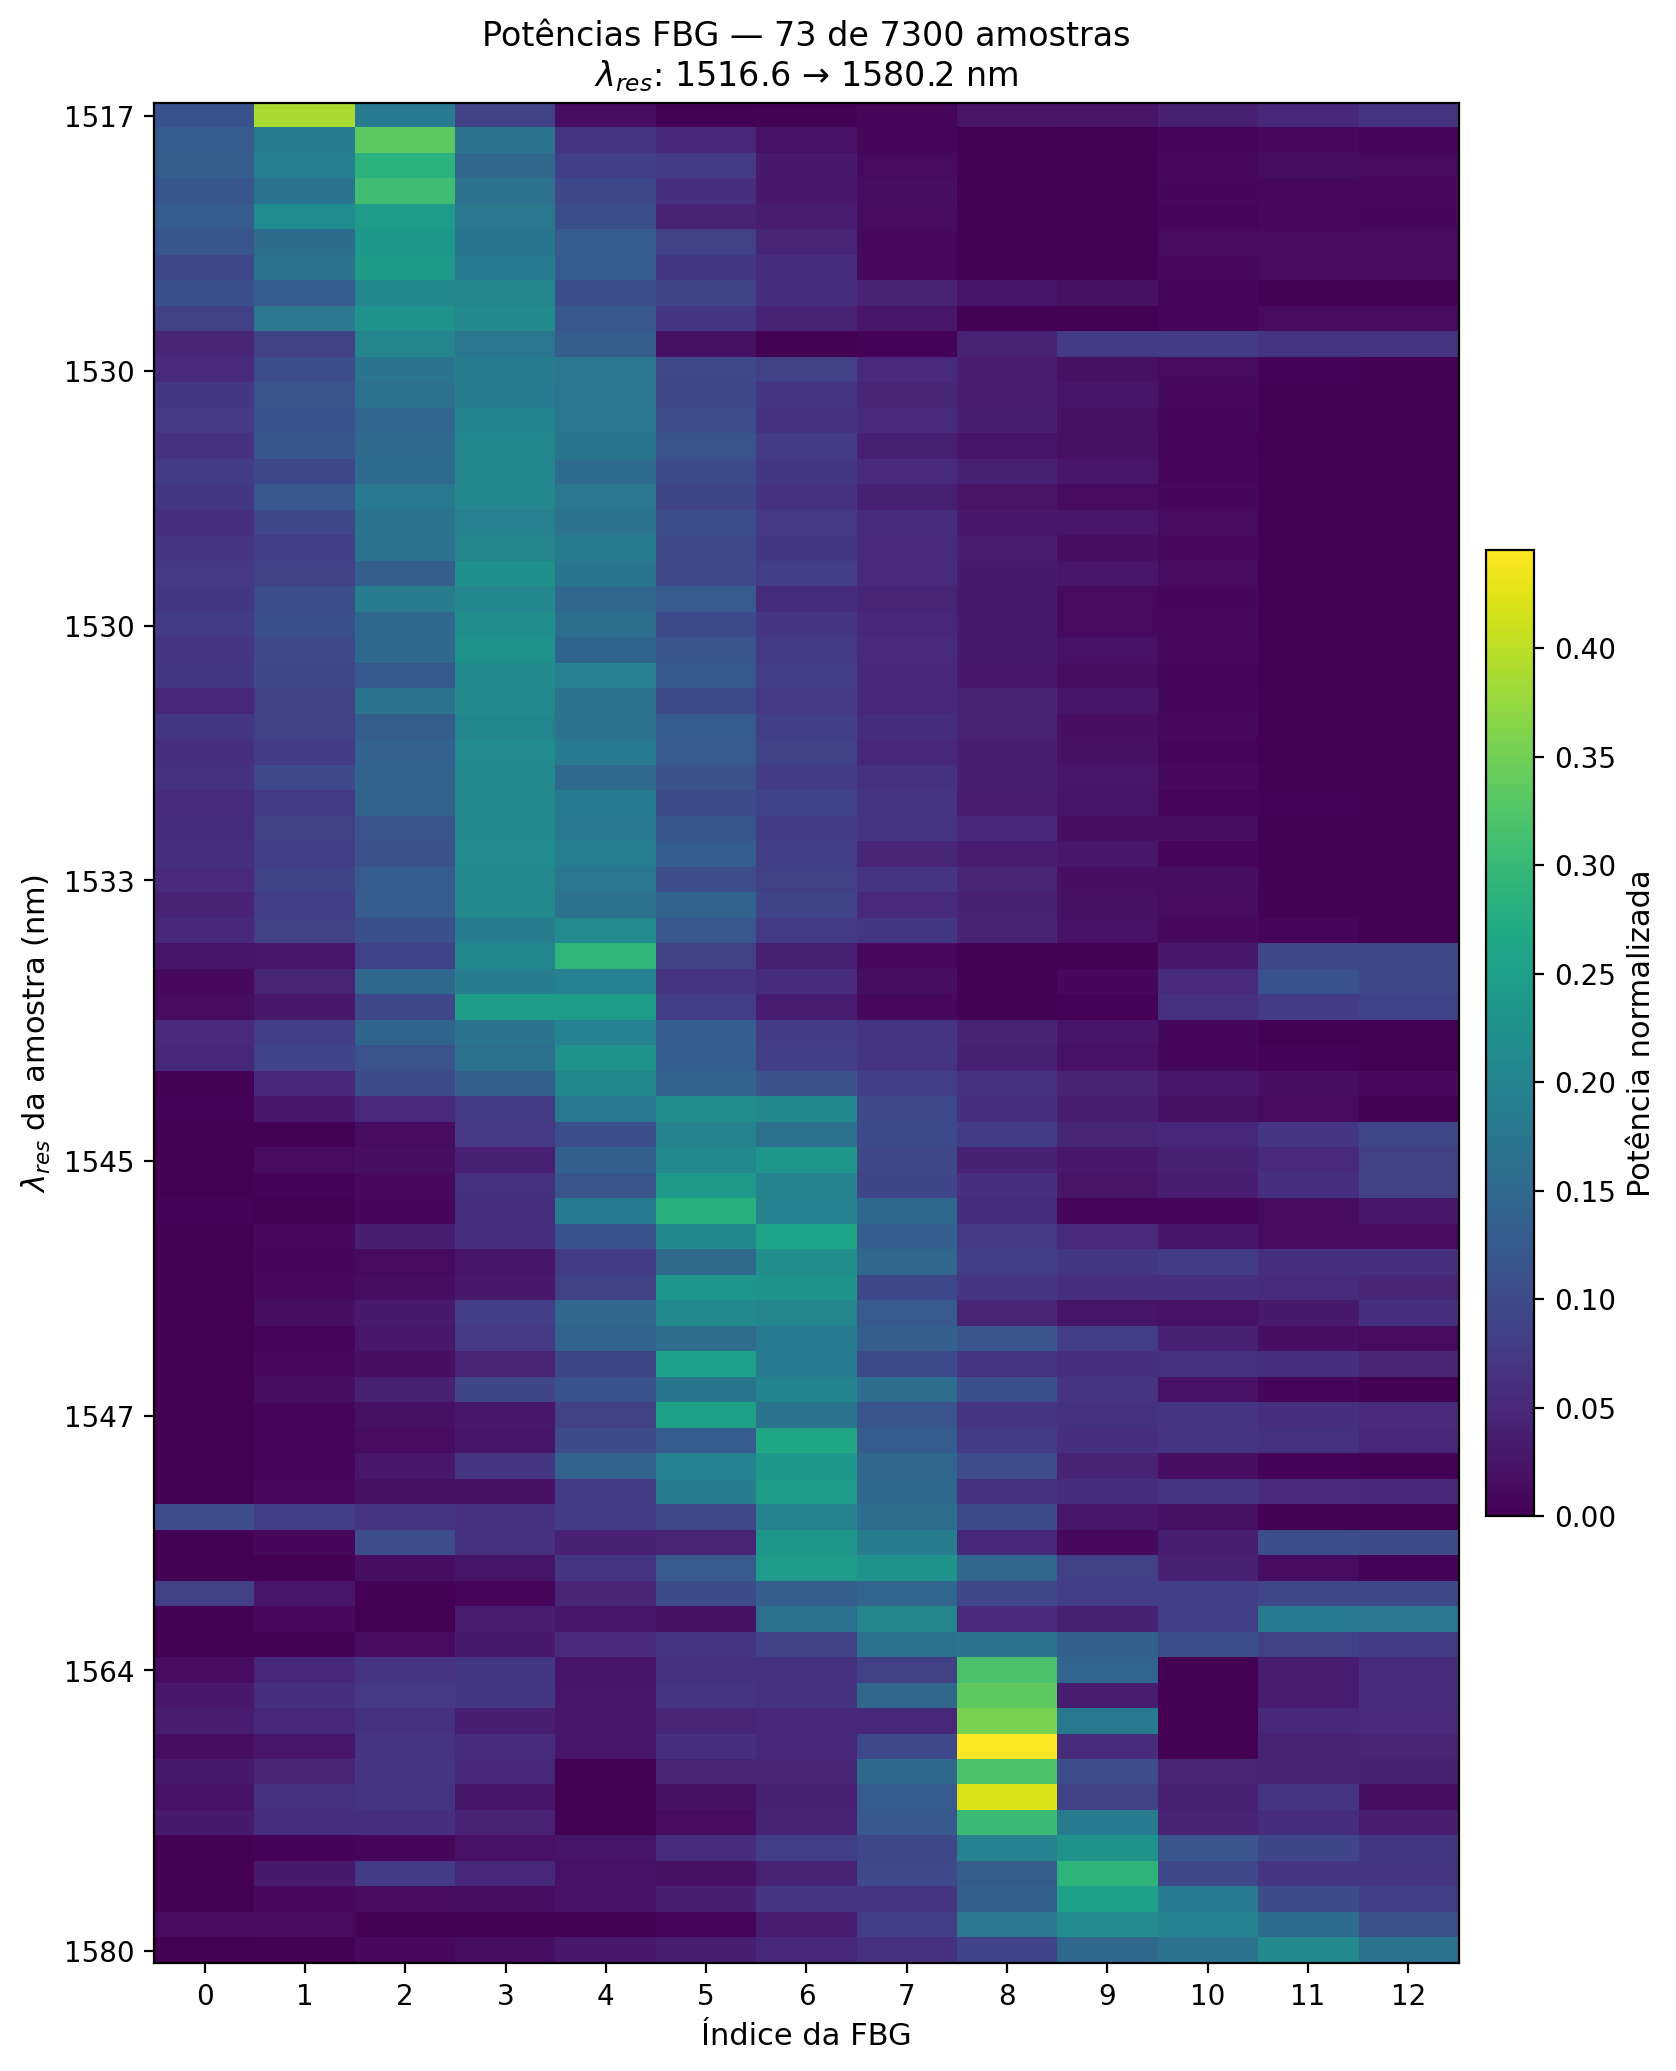
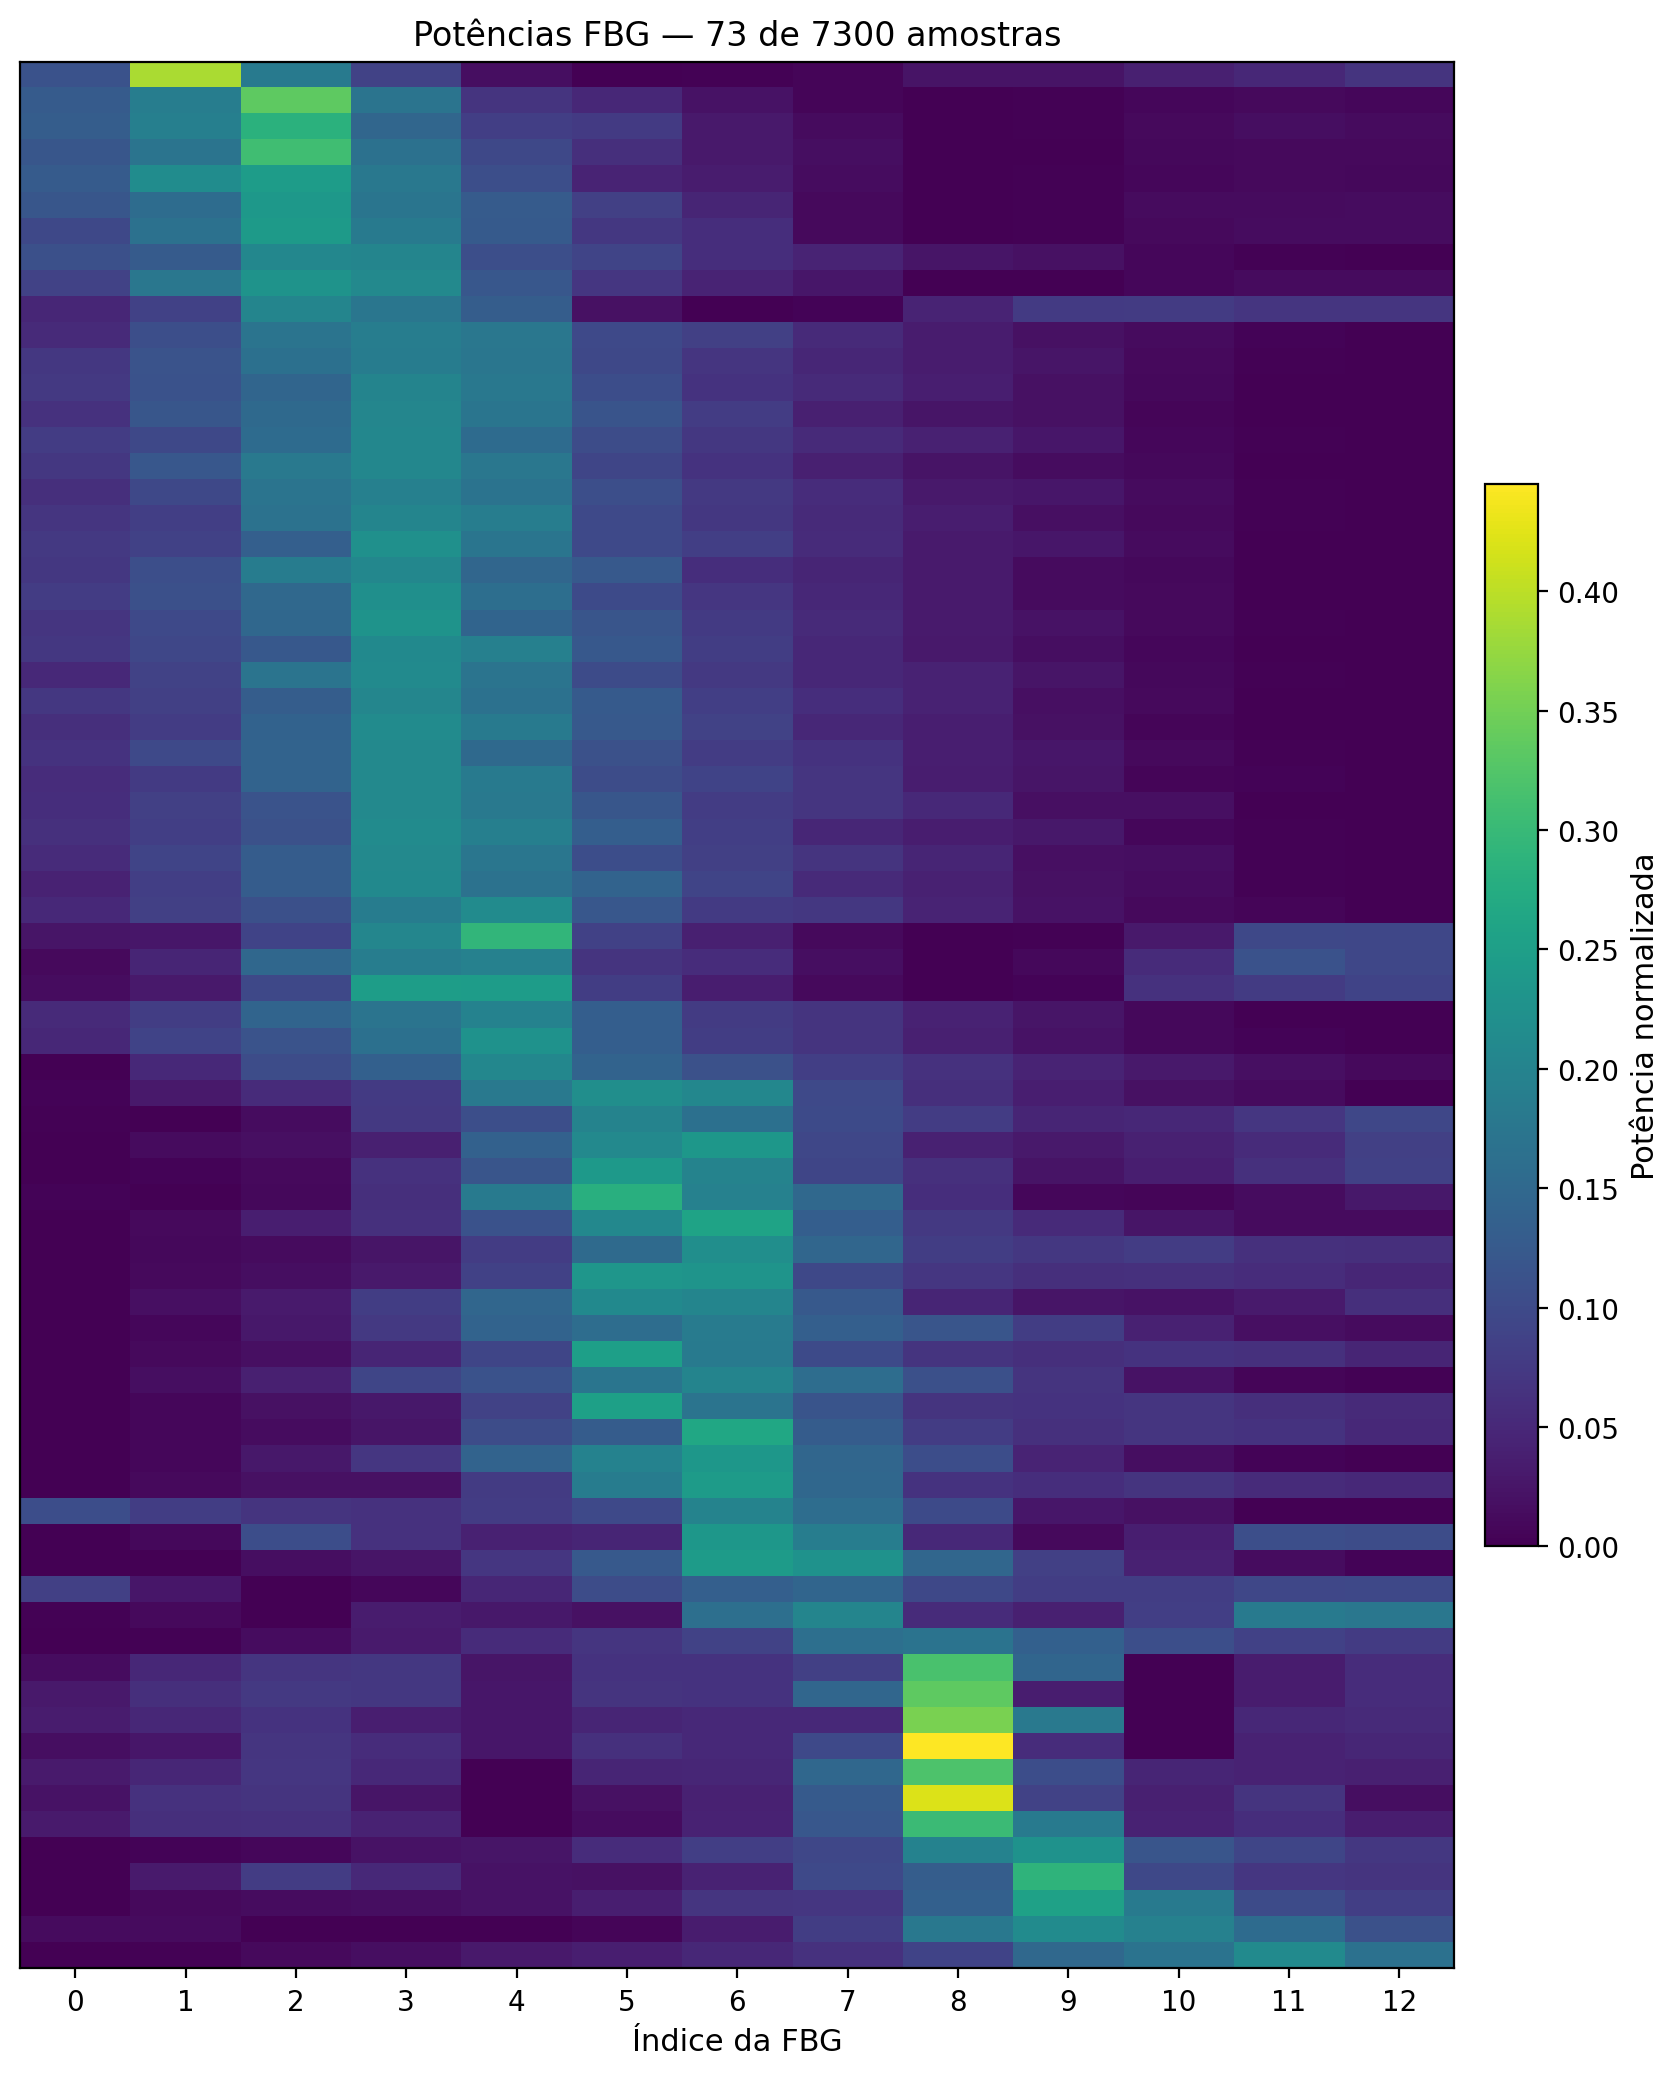
Simplify FBG power heatmap and add lambda_res sample plot.
Drop lambda_res labels from the 73x13 heatmap; add a separate line plot of lambda_res for the same subsample.

diff --git a/paper/classification/scripts/plot_lambda_res_73.py b/paper/classification/scripts/plot_lambda_res_73.py
@@ -1,0 +1,57 @@
+"""Gráfico simples: lambda_res ao longo das 73 amostras (mesma seleção do heatmap)."""
+
+from __future__ import annotations
+
+import sys
+from pathlib import Path
+
+import matplotlib
+
+matplotlib.use("Agg")
+import matplotlib.pyplot as plt
+import numpy as np
+
+ROOT = Path(__file__).resolve().parents[1]
+sys.path.insert(0, str(ROOT))
+
+from src.data_utils import FIGURES_DIR, load_prepared_dataset
+
+N_SHOW = 73
+
+
+def select_lambda_res(target: np.ndarray, n: int = N_SHOW) -> np.ndarray:
+    """Mesma subamostra do heatmap: n pontos igualmente espaçados em lambda_res ordenado."""
+    order = np.argsort(target)
+    idx = np.linspace(0, len(order) - 1, n, dtype=int)
+    return target[order[idx]]
+
+
+def main() -> None:
+    data = load_prepared_dataset()
+    target = np.asarray(data["target"], dtype=float).ravel()
+    lam = select_lambda_res(target, N_SHOW)
+    x = np.arange(1, N_SHOW + 1)
+
+    fig, ax = plt.subplots(figsize=(8, 4))
+    ax.plot(x, lam, "o-", color="#4c72b0", markersize=4, linewidth=1.2)
+    ax.set_xlabel("Amostra (1–73)", fontsize=11)
+    ax.set_ylabel(r"$\lambda_{res}$ (nm)", fontsize=11)
+    ax.set_title(
+        rf"$\lambda_{{res}}$ nas {N_SHOW} amostras selecionadas"
+        f"\n({lam[0]:.1f} → {lam[-1]:.1f} nm)",
+        fontsize=12,
+    )
+    ax.set_xlim(0.5, N_SHOW + 0.5)
+    ax.grid(True, alpha=0.3)
+    fig.tight_layout()
+
+    FIGURES_DIR.mkdir(parents=True, exist_ok=True)
+    out = FIGURES_DIR / "fig_lambda_res_73_samples.png"
+    fig.savefig(out, dpi=200, bbox_inches="tight")
+    plt.close(fig)
+    print(f"salvo: {out}")
+    print(f"n={len(lam)} | [{lam.min():.2f}, {lam.max():.2f}] nm")
+
+
+if __name__ == "__main__":
+    main()

diff --git a/paper/classification/scripts/plot_fbg_power_heatmap.py b/paper/classification/scripts/plot_fbg_power_heatmap.py
@@ -38,7 +38,7 @@ def main() -> None:
     target = np.asarray(data["target"], dtype=float).ravel()
     assert X.shape[1] == N_FBGS
 
-    X_show, lam_show, _ = select_samples(X, target, N_SHOW)
+    X_show, _, _ = select_samples(X, target, N_SHOW)
 
     fig, ax = plt.subplots(figsize=(8.5, 10.5))
     im = ax.imshow(
@@ -52,20 +52,11 @@ def main() -> None:
     cbar.set_label("Potência normalizada", fontsize=11)
 
     ax.set_xlabel("Índice da FBG", fontsize=11)
-    ax.set_ylabel("Amostra (ordenada por $\\lambda_{res}$ crescente)", fontsize=11)
-    ax.set_title(
-        f"Potências FBG — {N_SHOW} de {X.shape[0]} amostras\n"
-        f"$\\lambda_{{res}}$: {lam_show[0]:.1f} → {lam_show[-1]:.1f} nm",
-        fontsize=12,
-    )
+    ax.set_title(f"Potências FBG — {N_SHOW} de {X.shape[0]} amostras", fontsize=12)
     ax.set_xticks(np.arange(N_FBGS))
     ax.set_xticklabels([str(i) for i in range(N_FBGS)])
-
-    # Marcas de lambda_res no eixo y (algumas linhas)
-    y_ticks = np.linspace(0, N_SHOW - 1, 8, dtype=int)
-    ax.set_yticks(y_ticks)
-    ax.set_yticklabels([f"{lam_show[i]:.0f}" for i in y_ticks])
-    ax.set_ylabel("$\\lambda_{res}$ da amostra (nm)", fontsize=11)
+    ax.set_yticks([])
+    ax.set_ylabel("")
 
     fig.tight_layout()
     out = FIGURES_DIR / "fig_fbg_power_heatmap_73x13.png"
@@ -73,7 +64,7 @@ def main() -> None:
     fig.savefig(out, dpi=200, bbox_inches="tight")
     plt.close(fig)
     print(f"salvo: {out}")
-    print(f"shape: {X_show.shape} | lambda [{lam_show.min():.2f}, {lam_show.max():.2f}] nm")
+    print(f"shape: {X_show.shape}")
     print(f"X min/max na figura: {X_show.min():.4f} / {X_show.max():.4f}")
 
 